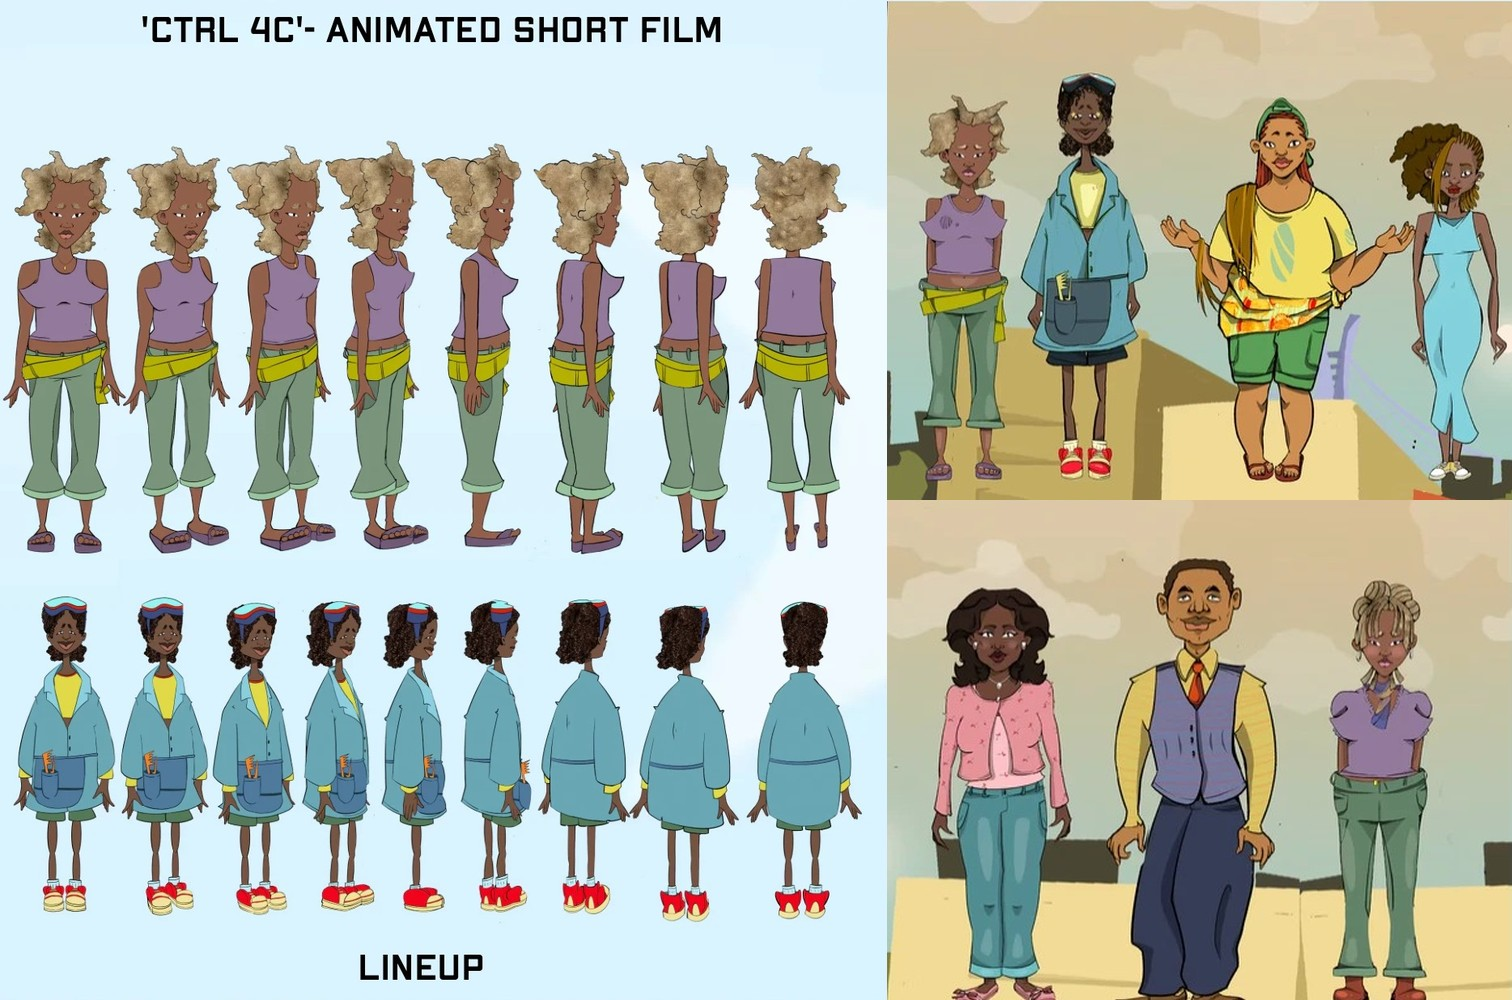
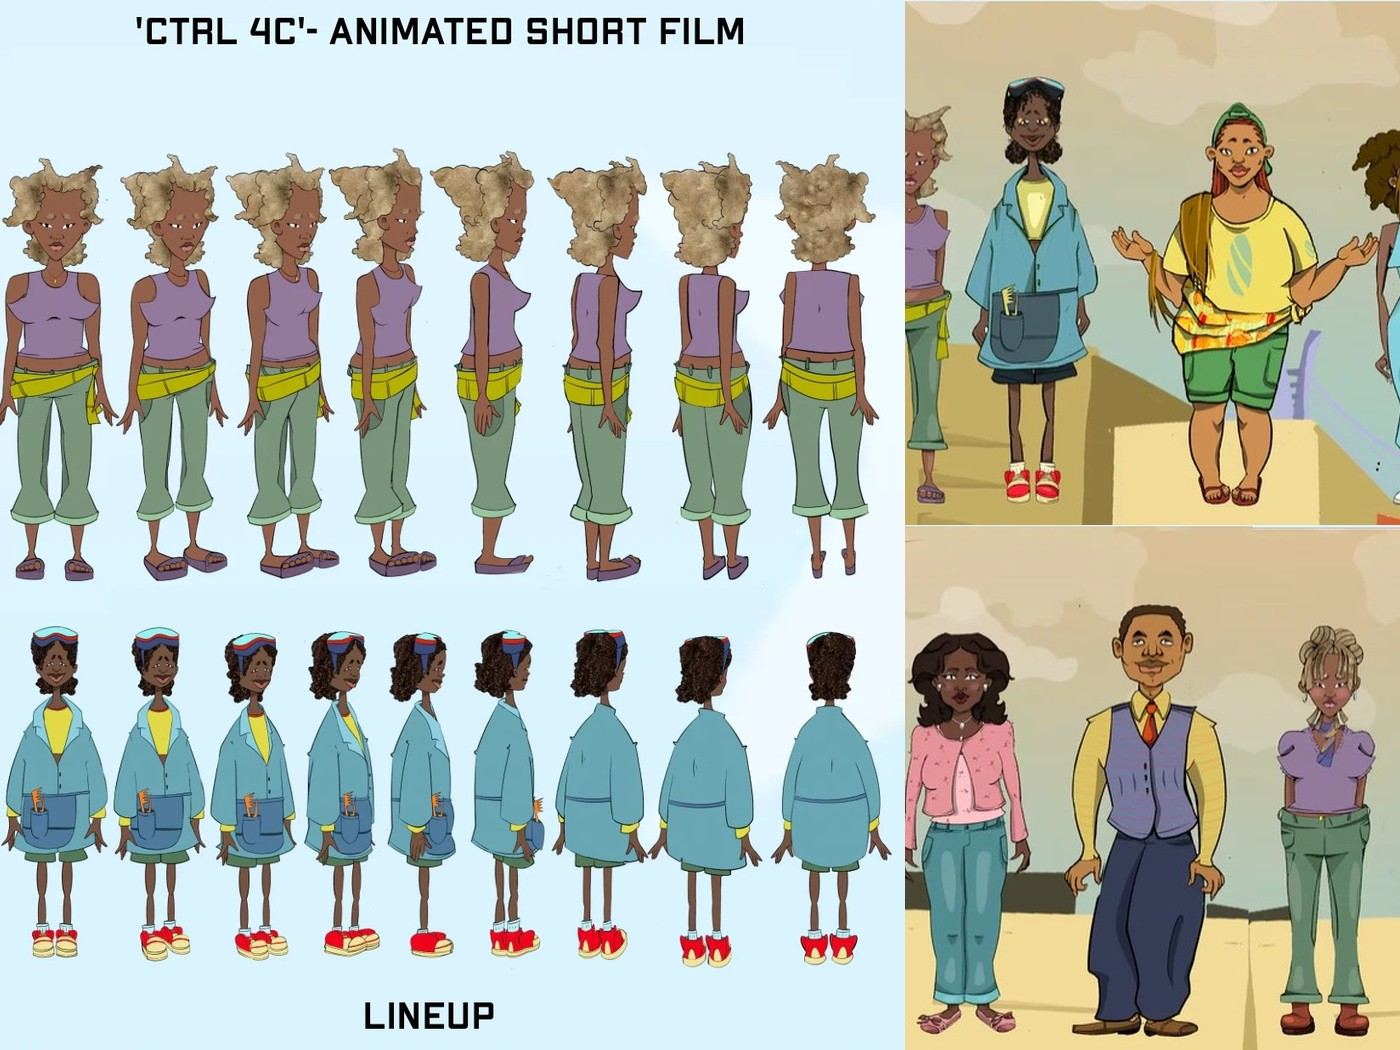
Character Design covers: Mind the Gap and CTRL 4C sheets rebuilt at 4:3 to fill the tile; CTRL 4C animatic gets View Full Project button

diff --git a/content/site.ts b/content/site.ts
@@ -1828,6 +1828,8 @@ export const storyboardReel: FeaturedAnimation[] = [
     src: "/videos/ctrl4c-animatic.mp4",
     poster: "/images/animation-portfolio/animatic-ctrl4c-poster.jpg",
     kind: "video",
+    href: "/projects/ctrl-4c-campaign",
+    hrefLabel: "View Full Project →",
   },
   {
     title: "Animatic",
